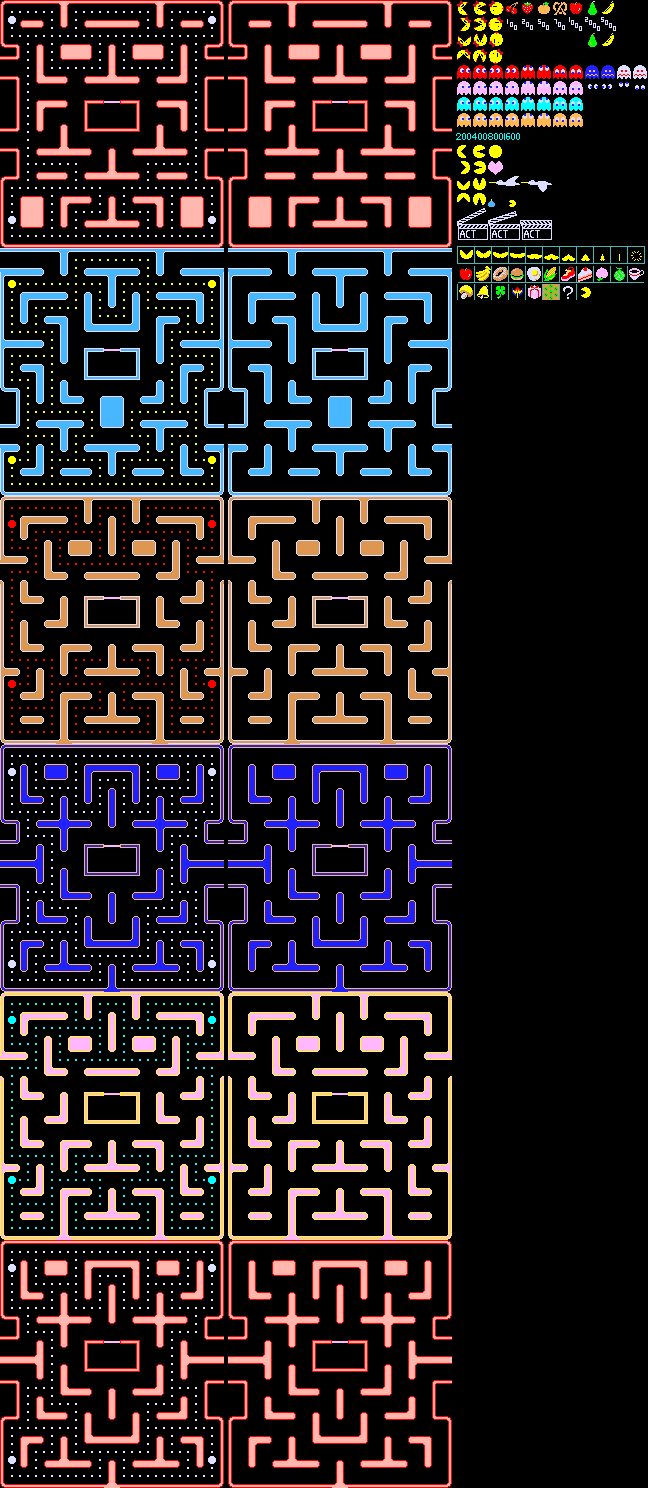
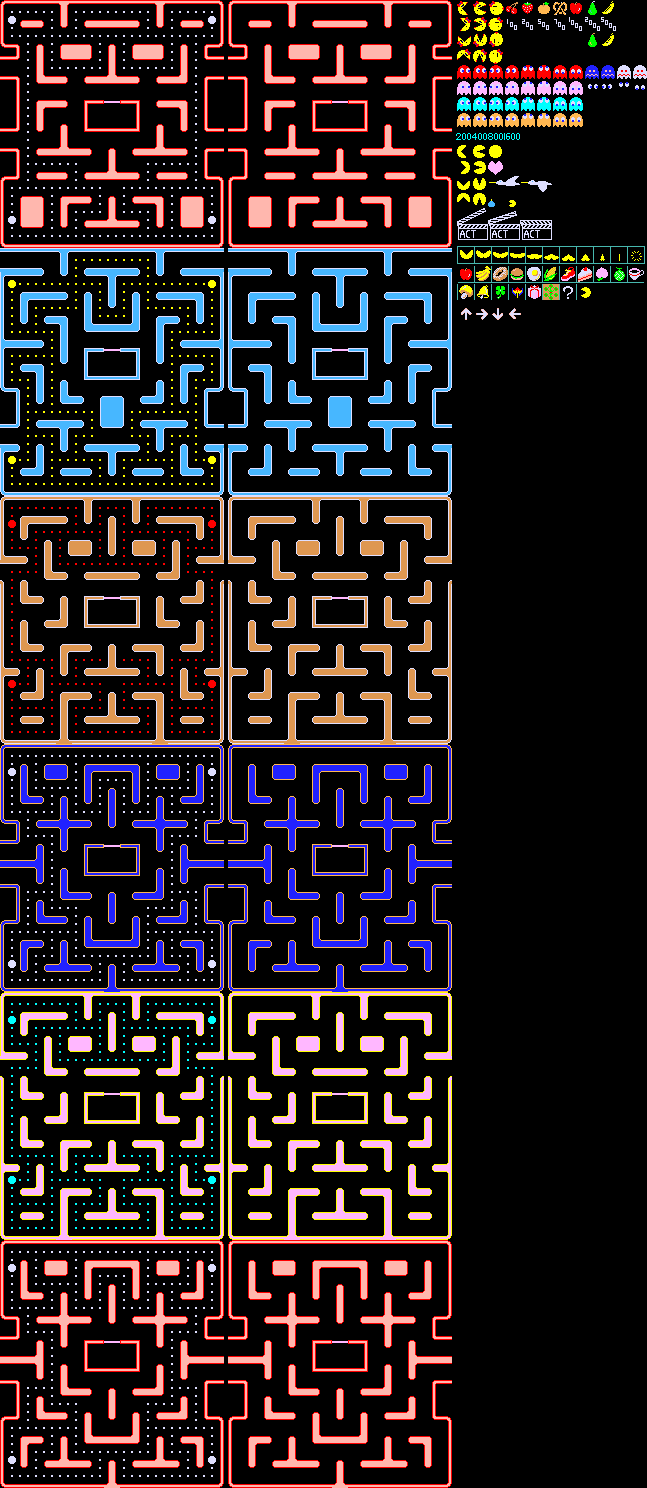
implementação feedback fantasmas

diff --git a/public/javascripts/script.js b/public/javascripts/script.js
@@ -17,6 +17,7 @@ var GLOBAIS = {
 	fruta: 0,
 	adv: true,
 	qts: 12,//quantas posições aparecem no rank...
+	pontosNecessariosParaGanharVida: 20000,
 	contLoop: 0
 }
 
@@ -100,12 +101,38 @@ function loop(){
 		habeascorpus(2000);
 	}
 	//ligar ia
-	if (contar('grao') < 290) {
-		if(contar('fantom') > 3){
-			console.log('ligar ia fantom '+ sprites[encontrar('fantom',3)].speed);
-			sprites[encontrar('fantom',3)].ia = true;
-		}		
+	if (contar('fantom') > 3) {
+		if (contar('grao') < 290) {
+			if(contar('fantom') > 3){
+				console.log('ligar ia fantom '+ sprites[encontrar('fantom',3)].speed);
+				sprites[encontrar('fantom',3)].ia = true;
+			}else{
+				sprites[encontrar('fantom',3)].ia = false;
+			}	
+		}
+		if (contar('grao') < 190) {
+			if(contar('fantom') > 3){
+				sprites[encontrar('fantom',2)].ia = true;
+			}else{
+				sprites[encontrar('fantom',2)].ia = false;
+			}
+		}
+		if (contar('grao') < 90) {
+			if(contar('fantom') > 3){
+				sprites[encontrar('fantom',1)].ia = true;
+			}else{
+				sprites[encontrar('fantom',1)].ia = false;
+			}
+		}
+		if (contar('grao') < 9) {
+			if(contar('fantom') > 3){
+				sprites[encontrar('fantom')].ia = true;
+			}else{
+				sprites[encontrar('fantom')].ia = false;
+			}
+		}
 	}
+	
 
 	requestAnimationFrame(loop, "canvas");
 }/****************************************************************************************************/
@@ -122,6 +149,10 @@ fantom(0,105,110);sprites[encontrar('fantom')].movRight=true;
 fantom(1,105,110);sprites[encontrar('fantom')].movRight=true;
 fantom(2,105,110);sprites[encontrar('fantom')].movLeft=true;
 fantom(3,105,110);sprites[encontrar('fantom')].movLeft=true;
+feedbackFantom(0);
+feedbackFantom(1);
+feedbackFantom(2);
+feedbackFantom(3);
 
 vida();
 
@@ -312,4 +343,30 @@ function restart(){
 	sprites[encontrar('player')].posY = 181;
 	voltar();
 	GLOBAIS.nerfar = false;
+}
+function feedbackFantom(tp){	
+	sprites.push(new Sprite('images/pacmanTransparente.png', 'feedback', 456, 64+16*tp, 16, 16, 230, 150+16*tp));
+	sprites.push(new Sprite('images/pacman.png', 'seta', 458+16*tp, 305, 16, 16, 250, 150+16*tp));
+	sprites.push(new Sprite('images/pacman.png', 'ia', 560, 283, 16, 16, 270, 150+16*tp));
+}
+function seta(ghost) {	
+	let set = ghost.cor -3;
+	(set < 0) ? set *= -1 : set;
+	if (ghost.movUp) {//cor é a posição do fantasma: 0,1,2,3		
+		sprites[encontrar('seta',set)].srcX = 458;
+	}
+	if (ghost.movRight) {//cor é a posição do fantasma: 0,1,2,3		
+		sprites[encontrar('seta',set)].srcX = 458+16;
+	}
+	if (ghost.movDown) {//cor é a posição do fantasma: 0,1,2,3		
+		sprites[encontrar('seta',set)].srcX = 458+16*2;
+	}
+	if (ghost.movLeft) {//cor é a posição do fantasma: 0,1,2,3	
+		sprites[encontrar('seta',set)].srcX = 458+16*3;
+	}
+	if (ghost.ia) {
+		sprites[encontrar('ia',set)].srcX = 577;
+	}else{
+		sprites[encontrar('ia',set)].srcX = 560;
+	}
 }

diff --git a/public/javascripts/sprite.js b/public/javascripts/sprite.js
@@ -184,7 +184,7 @@ function Sprite(imgSrc, flag, srcX, srcY, lar, alt, posX, posY){
 			GLOBAIS.somar--;
 			GLOBAIS.txt = 'SCORE: '+ GLOBAIS.pontos;
 			//vida extra...
-			if (!(GLOBAIS.pontos%30000)) {
+			if (!(GLOBAIS.pontos%GLOBAIS.pontosNecessariosParaGanharVida)) {
 				addVida();
 				GLOBAIS.vida++;
 				GLOBAIS.feedback = 'vida extra '+GLOBAIS.vida;
@@ -377,6 +377,8 @@ function Sprite(imgSrc, flag, srcX, srcY, lar, alt, posX, posY){
 					GLOBAIS.status = 'morrendo';
 				}
 			}
+			//setas do feedback
+			seta(this);
 		}
 		if (this.flag == 'zoio') {
 			if (this.posX > 87 && this.posX < 136 && this.posY > 97 && this.posY < 128 && !GLOBAIS.nerfar) {
